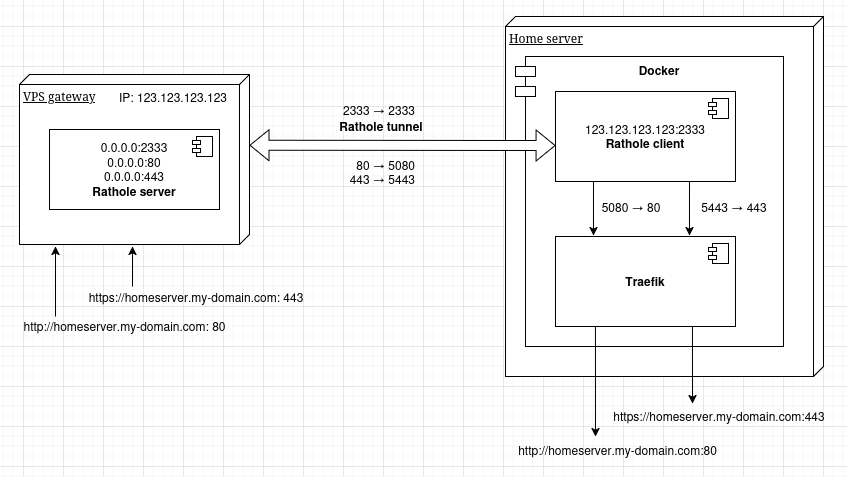
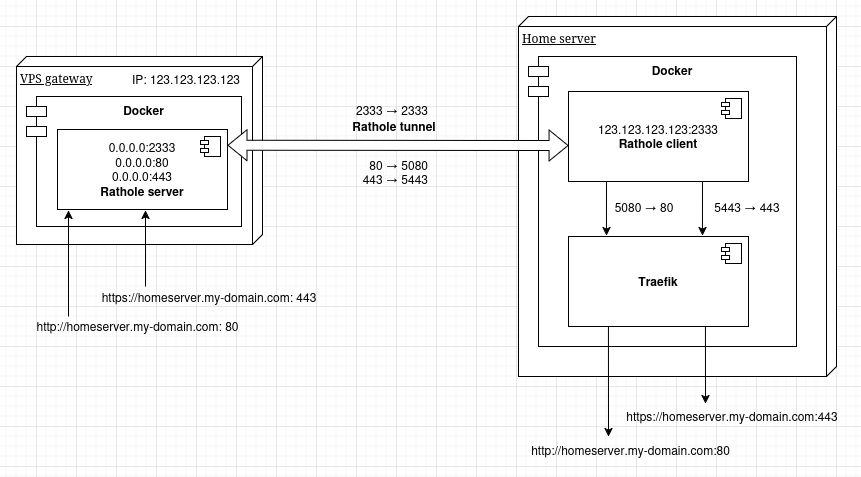
fix cgnat and architecture diagram

diff --git a/src/content/post/2025/04-20-ssh-tunnel-docker/_resources/index-devto.md b/src/content/post/2025/04-20-ssh-tunnel-docker/_resources/index-devto.md
@@ -1,6 +1,6 @@
 ## Introduction
 
-Most consumer-grade internet connections are hidden behind CG-NAT and are not reachable from the internet. This is done to save IP addresses, as IPv4 has a limited range. If you have a static public IPv4 or any IPv6 address, you won’t need the setup from this tutorial.
+Most consumer-grade internet connections are hidden behind CGNAT and are not reachable from the internet. This is done to save IP addresses, as IPv4 has a limited range. If you have a static public IPv4 or any IPv6 address, you won’t need the setup from this tutorial.
 
 There are already services like [localtunnel](https://github.com/localtunnel/localtunnel) or [ngrok](https://github.com/ngrok) for this purpose, but when you actually start using them, you will often find out that they have limitations on their free plans. So, we will configure our own custom setup once and have it always available for convenient and practical usage which will save a lot of time and nerves in the long run.
 

diff --git a/src/content/post/2025/04-20-ssh-tunnel-docker/_resources/index-hashnode.md b/src/content/post/2025/04-20-ssh-tunnel-docker/_resources/index-hashnode.md
@@ -1,6 +1,6 @@
 ## Introduction
 
-Most consumer-grade internet connections are hidden behind CG-NAT and are not reachable from the internet. This is done to save IP addresses, as IPv4 has a limited range. If you have a static public IPv4 or any IPv6 address, you won’t need the setup from this tutorial.
+Most consumer-grade internet connections are hidden behind CGNAT and are not reachable from the internet. This is done to save IP addresses, as IPv4 has a limited range. If you have a static public IPv4 or any IPv6 address, you won’t need the setup from this tutorial.
 
 There are already services like [localtunnel](https://github.com/localtunnel/localtunnel) or [ngrok](https://github.com/ngrok) for this purpose, but when you actually start using them, you will often find out that they have limitations on their free plans. So, we will configure our own custom setup once and have it always available for convenient and practical usage which will save a lot of time and nerves in the long run.
 
